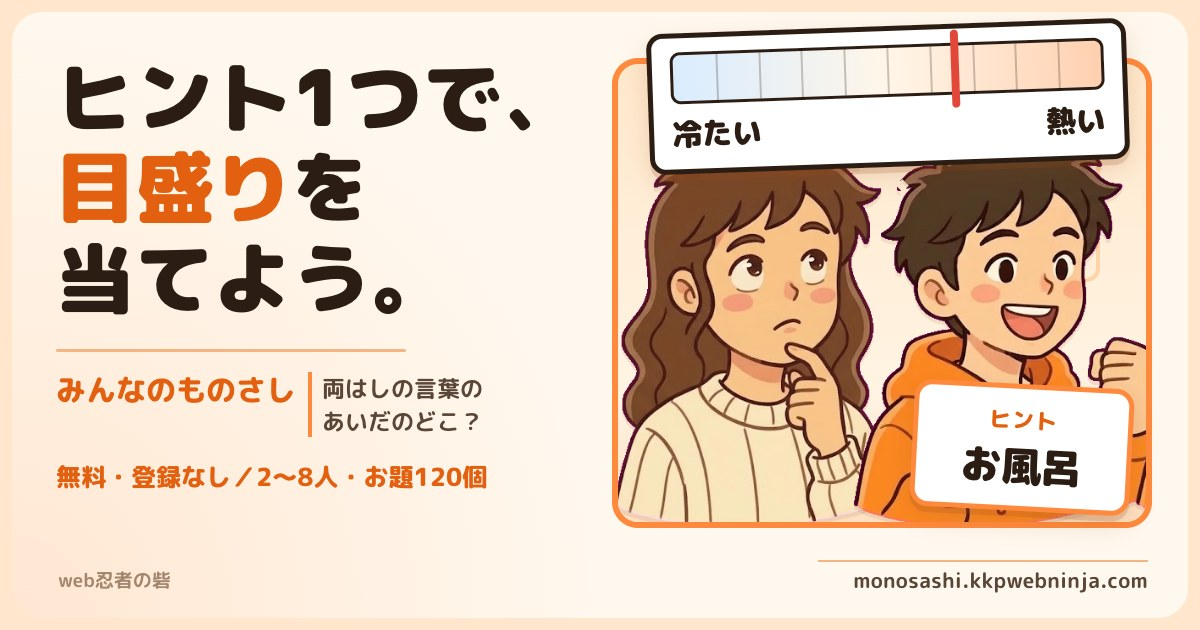
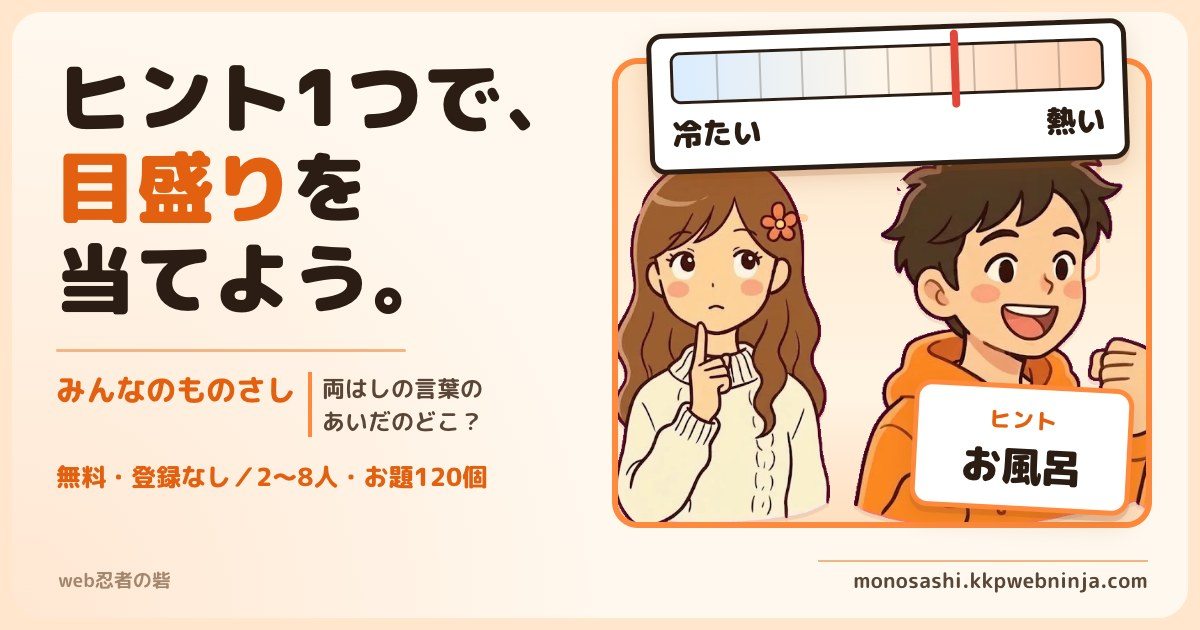
カード画像（OGP）の女の子を、ひと目で女の子と分かる絵に差し替える
男の子と同じ顔に見えていたため、kkp-kit の女の子の素材を作り直して書き出し直した（kkp-kit 978018e）。
og:image・twitter:image の ?d= を 20261023 にして、SNS に新しい画像を読み直させる。

Changed region(s): [[0.4933, 0.2413, 0.74, 0.8444]]

diff --git a/index.html b/index.html
@@ -17,9 +17,9 @@
 <meta property="og:type" content="website">
 <meta property="og:url" content="https://monosashi.kkpwebninja.com/">
 <meta property="og:site_name" content="みんなのものさし">
-<meta property="og:image" content="https://monosashi.kkpwebninja.com/ogp.jpg?d=20261022">
+<meta property="og:image" content="https://monosashi.kkpwebninja.com/ogp.jpg?d=20261023">
 <meta name="twitter:card" content="summary_large_image">
-<meta name="twitter:image" content="https://monosashi.kkpwebninja.com/ogp.jpg?d=20261022">
+<meta name="twitter:image" content="https://monosashi.kkpwebninja.com/ogp.jpg?d=20261023">
 
 <script type="application/ld+json">
 {

diff --git a/haishin/index.html b/haishin/index.html
@@ -12,7 +12,7 @@
 <meta property="og:type" content="article">
 <meta property="og:url" content="https://monosashi.kkpwebninja.com/haishin/">
 <meta property="og:site_name" content="みんなのものさし">
-<meta property="og:image" content="https://monosashi.kkpwebninja.com/ogp.jpg?d=20261022">
+<meta property="og:image" content="https://monosashi.kkpwebninja.com/ogp.jpg?d=20261023">
 <meta name="twitter:card" content="summary_large_image">
 <link rel="icon" type="image/png" sizes="32x32" href="/favicon.png">
 <link rel="apple-touch-icon" sizes="180x180" href="/apple-touch-icon.png">
